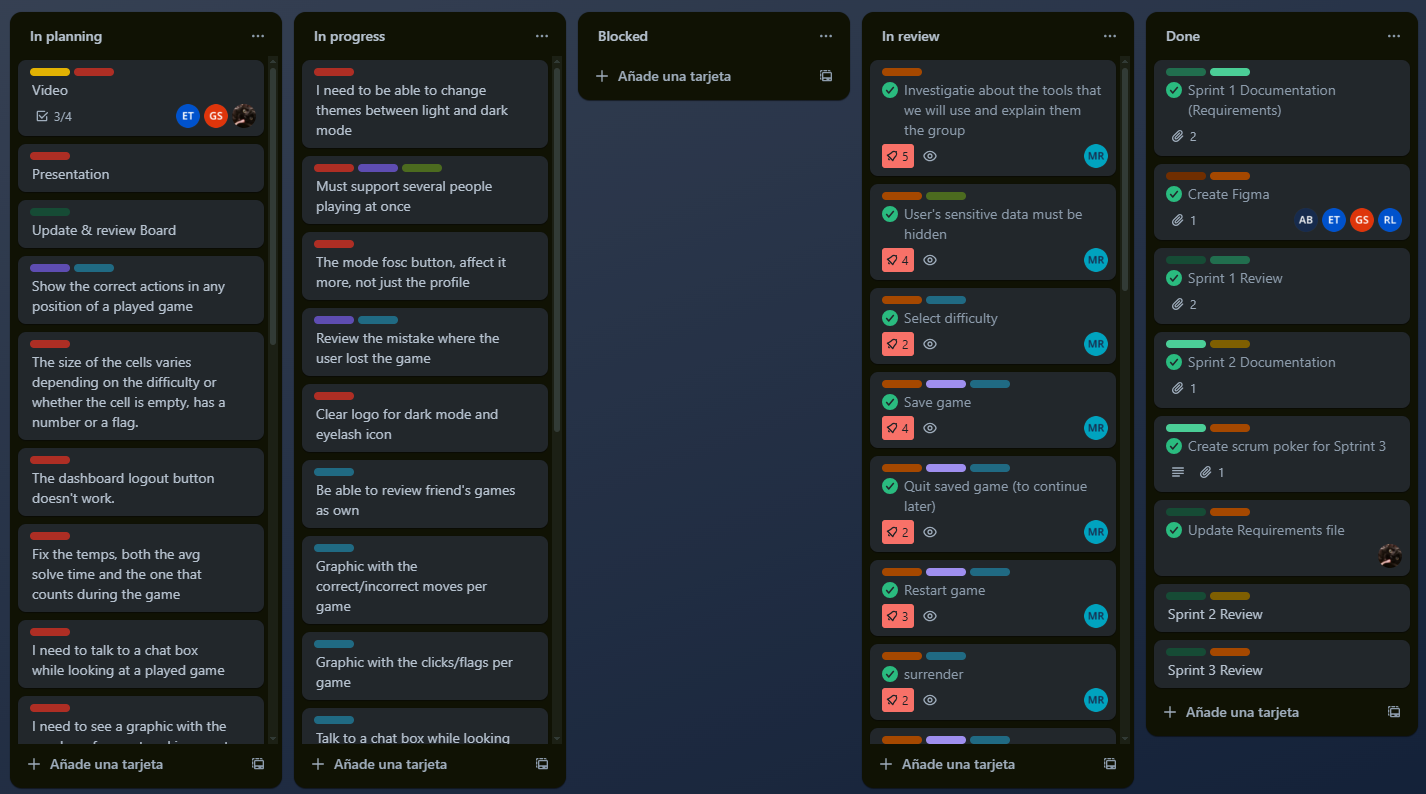
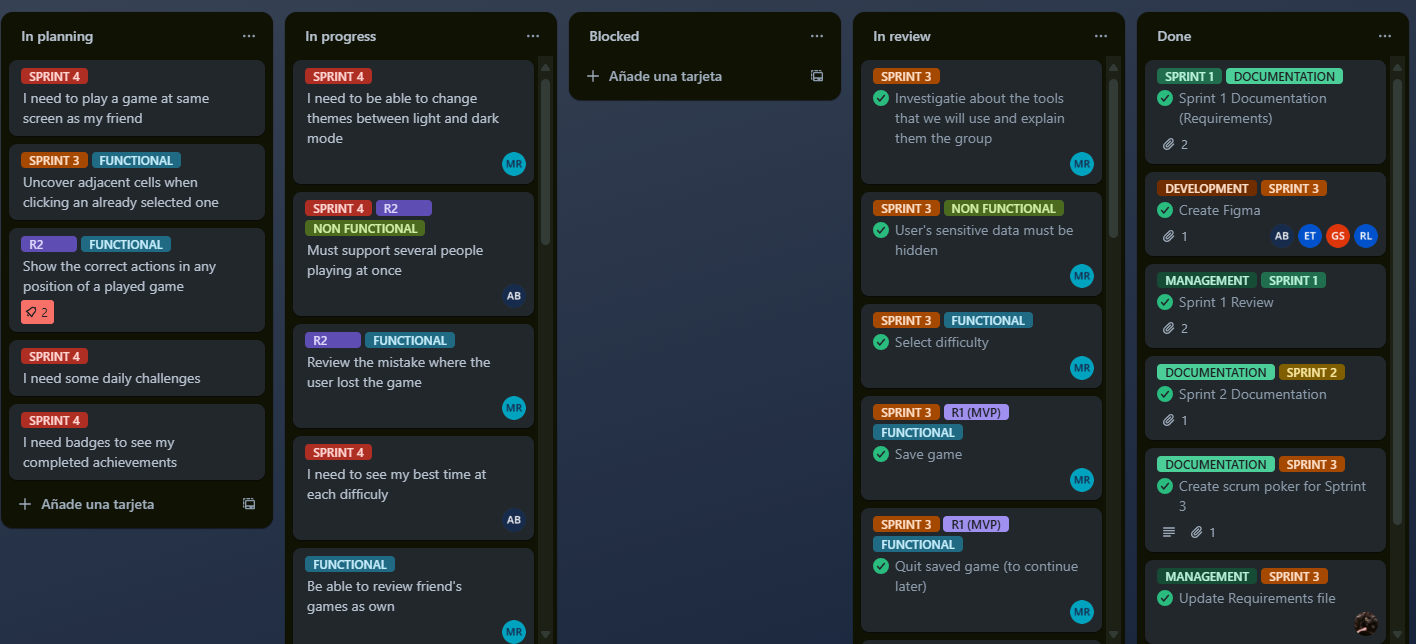
Edit organització, equip i imatge trello (Xavi)

diff --git a/team.html b/team.html
@@ -23,6 +23,22 @@
             </ul>
         </nav>
     </header>
+    <section class="section bg-light">
+        <div class="container">
+            <h2>What We Do</h2>
+            <p class="section-description">
+                Our goal is to offer a more personalized and educational Minesweeper experience.
+                With our web app, players can not only enjoy the classic game but also improve their skills by:
+            </p>
+            <ul class="what-we-do-list">
+                <li>Reviewing their own games to learn from past mistakes</li>
+                <li>Getting guidance from an AI assistant that explains game situations</li>
+                <li>Discovering their correct and incorrect moves</li>
+                <li>Watching games played by their friends</li>
+                <li>Tracking advanced statistics of their gameplay</li>
+            </ul>
+        </div>
+    </section>
     <main>
         <section class="section">
             <div class="container">
@@ -32,43 +48,43 @@
                     <div class="team-member">
                         <div class="member-info">
                             <h3>Rui</h3>
-                            <p>Team Introduction & Figma Design</p>
+                            <p>UI/UX design & Visual content</p>
                         </div>
                     </div>
                     <div class="team-member">
                         <div class="member-info">
                             <h3>Martí</h3>
-                            <p>MVP Design & Development</p>
+                            <p>Development</p>
                         </div>
                     </div>
                     <div class="team-member">
                         <div class="member-info">
                             <h3>Xavi</h3>
-                            <p>Organization</p>
+                            <p>Organization & Development</p>
                         </div>
                     </div>
                     <div class="team-member">
                         <div class="member-info">
                             <h3>Guillem</h3>
-                            <p>Requirements Specification & Video</p>
+                            <p>UI/UX design & Visual content</p>
                         </div>
                     </div>
                     <div class="team-member">
                         <div class="member-info">
                             <h3>Edu</h3>
-                            <p>Product Canvas & Journey Map</p>
+                            <p>UI/UX design & Visual content</p>
                         </div>
                     </div>
                     <div class="team-member">
                         <div class="member-info">
                             <h3>Andreu</h3>
-                            <p>User Story</p>
+                            <p>UI/UX design & Development</p>
                         </div>
                     </div>
                     <div class="team-member">
                         <div class="member-info">
                             <h3>Rita</h3>
-                            <p>Presentation Organization</p>
+                            <p>Visual content & Development</p>
                         </div>
                     </div>
                 </div>

diff --git a/organization.html b/organization.html
@@ -51,8 +51,16 @@
                     </div>
                 </div>
                 <div class="task-assignment">
-                    <h3>Task Assignment Process</h3>
-                    <p>How we decided which tasks to do and who would do them</p>
+                    <h3>How We Worked</h3>
+                    <ul class="presentation-list">
+                        <li><strong>1. Sprint Planning:</strong> Team discussion to define sprint goals.</li>
+                        <li><strong>2. Task Breakdown:</strong> Goals split into small, clear tasks.</li>
+                        <li><strong>3. MVP Visual:</strong> Used <strong>Cardboardit</strong> to define the product structure.</li>
+                        <li><strong>4. Task Assignment:</strong> One person per task, no overlaps.</li>
+                        <li><strong>5. Progress Tracking:</strong> Tasks added to <strong>Trello</strong> and tracked during the sprint.</li>
+                        <li><strong>6. Sprint Review:</strong> Completed tasks validated; new ideas scheduled for next sprints.</li>
+                    </ul>
+
                     <div class="trello-preview" style="margin-top:1rem; text-align:center;">
                         <img src="assets/trello.png" alt="Trello Board Screenshot" style="max-width:100%; height:auto; border:1px solid #ccc; border-radius:8px; box-shadow:0 2px 8px rgba(0,0,0,0.05);">
                         <div style="margin-top:0.5rem;">
